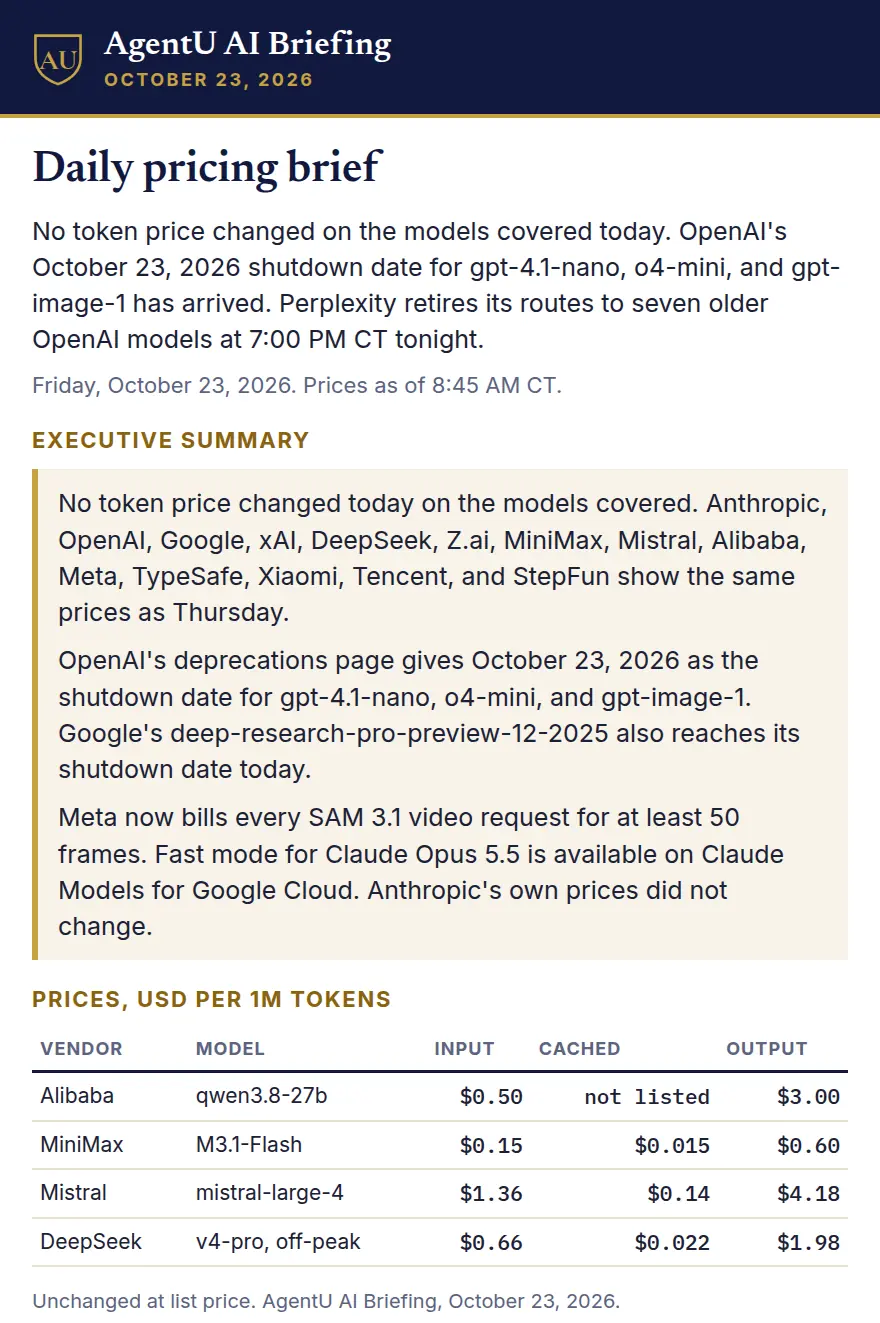
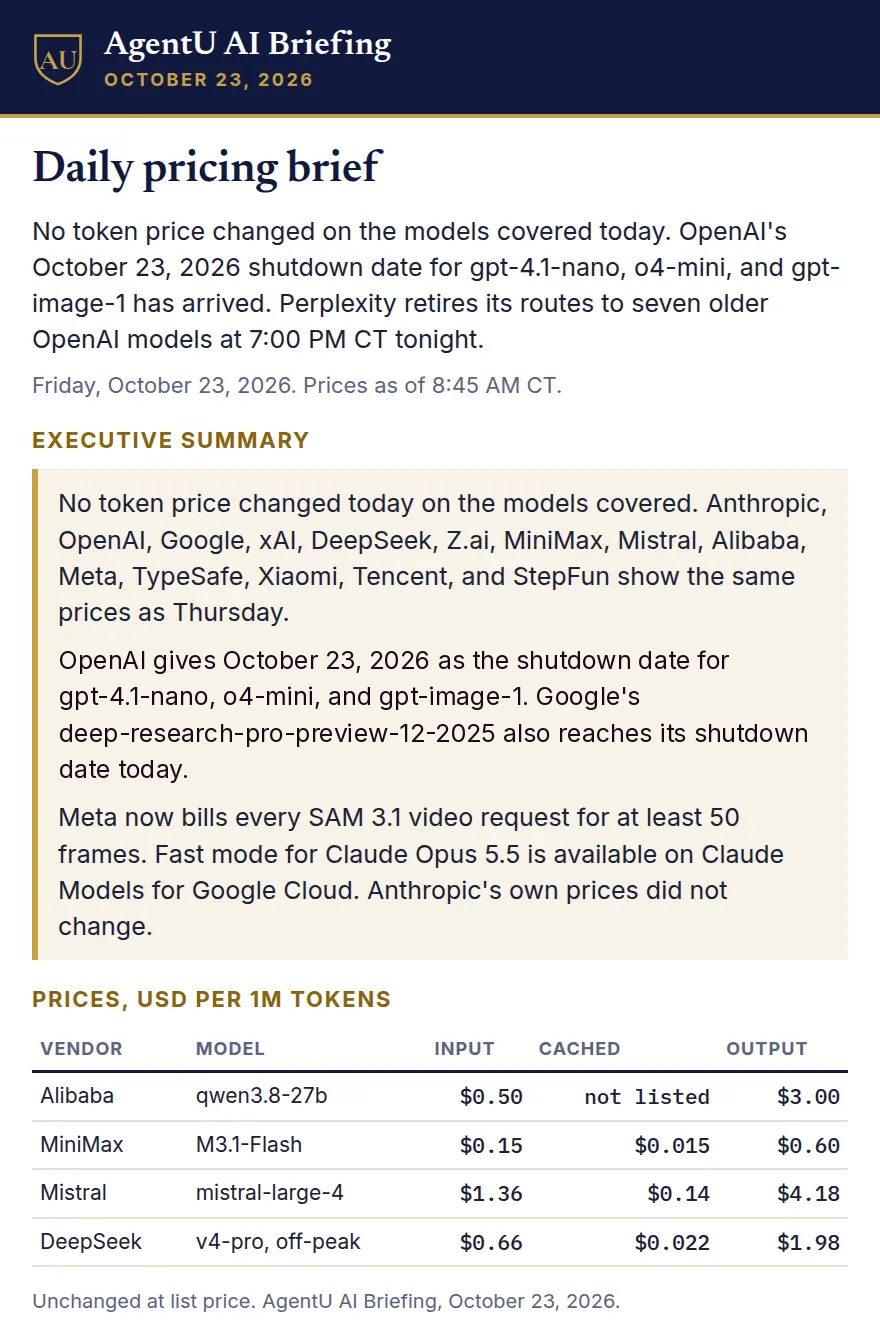
Remove remaining source mentions

Changed region(s): [[0.0614, 0.4958, 0.9205, 0.5888]]

diff --git a/billing-accuracy/index.html b/billing-accuracy/index.html
@@ -128,7 +128,7 @@ a:hover{text-decoration:underline}
   <div class="shead">
     <span class="kicker">Price tracker</span>
     <h2>Recent Model Price Changes</h2>
-    <p class="ssub">Prices as of Oct 21, 2026, 10:58 PM CT. USD per 1M tokens. Each row links to the vendor's own pricing page.</p>
+    <p class="ssub">Prices as of Oct 21, 2026, 10:58 PM CT. USD per 1M tokens.</p>
   </div>
   <div class="tblwrap">
     <table class="tbl">
@@ -140,7 +140,6 @@ a:hover{text-decoration:underline}
           <th scope="col">Old</th>
           <th scope="col">New</th>
           <th scope="col">Effective</th>
-          <th scope="col">Source</th>
         </tr>
       </thead>
       <tbody>
@@ -151,7 +150,6 @@ a:hover{text-decoration:underline}
           <td class="num">$0.68</td>
           <td class="num"><b class="bad">$1.36</b></td>
           <td>Oct 21, 2026</td>
-          <td><a href="https://docs.mistral.ai/inference/pricing" rel="noopener">Mistral pricing</a></td>
         </tr>
         <tr>
           <td>Mistral</td>
@@ -160,7 +158,6 @@ a:hover{text-decoration:underline}
           <td class="num">$0.07</td>
           <td class="num"><b class="bad">$0.14</b></td>
           <td>Oct 21, 2026</td>
-          <td><a href="https://docs.mistral.ai/inference/pricing" rel="noopener">Mistral pricing</a></td>
         </tr>
         <tr>
           <td>Mistral</td>
@@ -169,7 +166,6 @@ a:hover{text-decoration:underline}
           <td class="num">$0.68</td>
           <td class="num"><b class="bad">$1.36</b></td>
           <td>Oct 21, 2026</td>
-          <td><a href="https://docs.mistral.ai/inference/pricing" rel="noopener">Mistral pricing</a></td>
         </tr>
         <tr>
           <td>Mistral</td>
@@ -178,7 +174,6 @@ a:hover{text-decoration:underline}
           <td class="num">$2.09</td>
           <td class="num"><b class="bad">$4.18</b></td>
           <td>Oct 21, 2026</td>
-          <td><a href="https://docs.mistral.ai/inference/pricing" rel="noopener">Mistral pricing</a></td>
         </tr>
         <tr>
           <td>Mistral</td>
@@ -187,7 +182,6 @@ a:hover{text-decoration:underline}
           <td class="num">$0.125</td>
           <td class="num"><b class="good">$0.05</b></td>
           <td>Oct 19, 2026</td>
-          <td><a href="https://docs.mistral.ai/inference/pricing" rel="noopener">Mistral pricing</a></td>
         </tr>
         <tr>
           <td>Mistral</td>
@@ -196,7 +190,6 @@ a:hover{text-decoration:underline}
           <td class="num">$0.025</td>
           <td class="num"><b class="good">$0.015</b></td>
           <td>Oct 19, 2026</td>
-          <td><a href="https://docs.mistral.ai/inference/pricing" rel="noopener">Mistral pricing</a></td>
         </tr>
       </tbody>
     </table>
@@ -214,7 +207,6 @@ a:hover{text-decoration:underline}
           <th scope="col">Cached Input</th>
           <th scope="col">Output</th>
           <th scope="col">Recorded</th>
-          <th scope="col">Source</th>
         </tr>
       </thead>
       <tbody>
@@ -225,7 +217,6 @@ a:hover{text-decoration:underline}
           <td class="num">$0.375</td>
           <td class="num">$2.25</td>
           <td>Oct 20, 2026</td>
-          <td><a href="https://www.alibabacloud.com/help/en/model-studio/model-pricing" rel="noopener">Alibaba pricing</a></td>
         </tr>
         <tr>
           <td>Alibaba</td>
@@ -234,7 +225,6 @@ a:hover{text-decoration:underline}
           <td class="num">$0.25</td>
           <td class="num">$6.00</td>
           <td>Oct 20, 2026</td>
-          <td><a href="https://www.alibabacloud.com/help/en/model-studio/model-pricing" rel="noopener">Alibaba pricing</a></td>
         </tr>
         <tr>
           <td>Meta</td>
@@ -243,7 +233,6 @@ a:hover{text-decoration:underline}
           <td class="num">$0.15</td>
           <td class="num">$4.25</td>
           <td>Oct 20, 2026</td>
-          <td><a href="https://dev.meta.ai/docs/pricing-rate-limits" rel="noopener">Meta pricing</a></td>
         </tr>
         <tr>
           <td>Moonshot</td>
@@ -252,7 +241,6 @@ a:hover{text-decoration:underline}
           <td class="num">$0.38</td>
           <td class="num">$8.00</td>
           <td>Oct 20, 2026</td>
-          <td><a href="https://platform.kimi.ai/docs/pricing/chat" rel="noopener">Moonshot pricing</a></td>
         </tr>
         <tr>
           <td>StepFun</td>
@@ -261,7 +249,6 @@ a:hover{text-decoration:underline}
           <td class="num">$0.10</td>
           <td class="num">$2.70</td>
           <td>Oct 20, 2026</td>
-          <td><a href="https://platform.stepfun.ai/docs/en/guides/pricing/details" rel="noopener">StepFun pricing</a></td>
         </tr>
         <tr>
           <td>Tencent</td>
@@ -270,7 +257,6 @@ a:hover{text-decoration:underline}
           <td class="num">$0.033</td>
           <td class="num">$0.528</td>
           <td>Oct 20, 2026</td>
-          <td><a href="https://www.tencentcloud.com/document/product/1300/78937" rel="noopener">Tencent pricing</a></td>
         </tr>
         <tr>
           <td>Tencent</td>
@@ -279,7 +265,6 @@ a:hover{text-decoration:underline}
           <td class="num">$0.042</td>
           <td class="num">$2.501</td>
           <td>Oct 20, 2026</td>
-          <td><a href="https://www.tencentcloud.com/document/product/1300/78937" rel="noopener">Tencent pricing</a></td>
         </tr>
         <tr>
           <td>Xiaomi</td>
@@ -288,7 +273,6 @@ a:hover{text-decoration:underline}
           <td class="num">$0.0028</td>
           <td class="num">$0.28</td>
           <td>Oct 20, 2026</td>
-          <td><a href="https://mimo.mi.com/docs/en-US/price/pay-as-you-go" rel="noopener">Xiaomi pricing</a></td>
         </tr>
         <tr>
           <td>Xiaomi</td>
@@ -297,7 +281,6 @@ a:hover{text-decoration:underline}
           <td class="num">$0.0036</td>
           <td class="num">$0.87</td>
           <td>Oct 20, 2026</td>
-          <td><a href="https://mimo.mi.com/docs/en-US/price/pay-as-you-go" rel="noopener">Xiaomi pricing</a></td>
         </tr>
         <tr>
           <td>Xiaomi</td>
@@ -306,7 +289,6 @@ a:hover{text-decoration:underline}
           <td class="num">$0.036</td>
           <td class="num">$8.70</td>
           <td>Oct 20, 2026</td>
-          <td><a href="https://mimo.mi.com/docs/en-US/price/pay-as-you-go" rel="noopener">Xiaomi pricing</a></td>
         </tr>
         <tr>
           <td>MiniMax</td>
@@ -315,7 +297,6 @@ a:hover{text-decoration:underline}
           <td class="num">$0.015</td>
           <td class="num">$0.60</td>
           <td>Oct 19, 2026</td>
-          <td><a href="https://platform.minimax.io/docs/pricing/overview" rel="noopener">MiniMax pricing</a></td>
         </tr>
       </tbody>
     </table>
